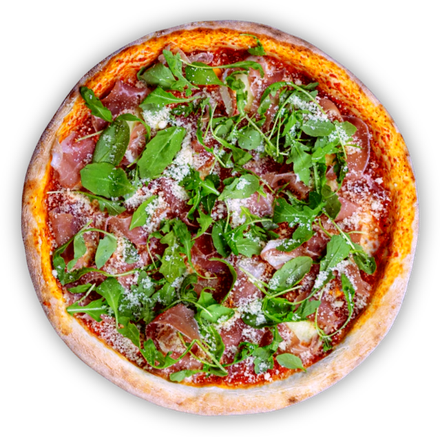
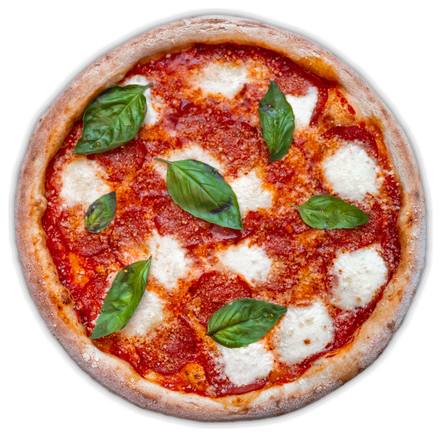
feat: правки заказчика — ассеты, мобильные размеры, CTA в картах, патичка
- favicon: вилка в жёлтом круге (icon.svg — исходник, gen-icons делает ico/apple-icon)
- hero: маргарита вместо маленькой пиццы, картошка в кульке
- карточки акций: дата · место везде, включая HP; бейдж «Již proběhlo»
- мобила (< md): тексты 15px, кнопки/теги/табы 50px·15px, newsletter поле и кнопка меньше
- theme-color #ffd100
- патичка: «BEDY Group s.r.o., IČO, DIČ» из global (новое поле companyName)
- якорь #newsletter с плавной прокруткой, мобильное меню закрывается по клику
- shared.numbered-card: необязательная кнопка (cta), populate '*' — устойчиво к порядку деплоя

diff --git a/client/src/components/Footer.tsx b/client/src/components/Footer.tsx
@@ -8,7 +8,7 @@ import { Logo } from './Logo';
  * Патичка. В макете отсутствует (подтверждено письмом) — «pár sloupců a odkazy,
  * sociální sítě atd». Тёмная, начинается сразу под жёлтой секцией newsletteru: волну
  * рисует её нижняя кромка, поэтому своей у патички нет.
- * Данные из `navigation` (колонки, правовые ссылки) + `global` (контакты, соцсети),
+ * Данные из `navigation` (колонки, правовые ссылки) + `global` (контакты, соцсети, údaje firmy),
  * с фолбэком, пока CMS пустая.
  */
 
@@ -37,6 +37,9 @@ const FALLBACK_LEGAL: FooterLink[] = [
   { label: 'Cookies', url: '/cookies' },
 ];
 
+/** Řádek s údaji provozovatele (místo «© rok Gastrozóny» — přání zákazníka 10/2026). */
+const FALLBACK_COMPANY = { name: 'BEDY Group s.r.o.', ico: '06304273', dic: 'CZ06304273' };
+
 const SOCIAL_LABELS: Record<string, string> = {
   facebook: 'Facebook',
   instagram: 'Instagram',
@@ -53,7 +56,15 @@ type FooterData = {
   phone: string | null;
   email: string | null;
   socials: Social[];
+  company: string;
 };
+
+const companyLine = (name?: string | null, ico?: string | null, dic?: string | null) =>
+  [
+    name || FALLBACK_COMPANY.name,
+    `IČO: ${ico || FALLBACK_COMPANY.ico}`,
+    `DIČ: ${dic || FALLBACK_COMPANY.dic}`,
+  ].join(', ');
 
 async function getFooterData(): Promise<FooterData> {
   try {
@@ -66,7 +77,14 @@ async function getFooterData(): Promise<FooterData> {
         query: { populate: ['footerColumns', 'footerColumns.links', 'footerLegal'] },
         revalidate: 300,
       }),
-      strapiFetch<{ phone?: string | null; email?: string | null; socials?: Social[] }>('/global', {
+      strapiFetch<{
+        phone?: string | null;
+        email?: string | null;
+        socials?: Social[];
+        companyName?: string | null;
+        ico?: string | null;
+        dic?: string | null;
+      }>('/global', {
         query: { populate: ['socials'] },
         revalidate: 300,
       }),
@@ -82,15 +100,26 @@ async function getFooterData(): Promise<FooterData> {
       phone: global.data?.phone ?? null,
       email: global.data?.email ?? null,
       socials: global.data?.socials ?? [],
+      company: companyLine(global.data?.companyName, global.data?.ico, global.data?.dic),
     };
   } catch {
-    return { columns: FALLBACK_COLUMNS, note: null, legal: FALLBACK_LEGAL, phone: null, email: null, socials: [] };
+    return {
+      columns: FALLBACK_COLUMNS,
+      note: null,
+      legal: FALLBACK_LEGAL,
+      phone: null,
+      email: null,
+      socials: [],
+      company: companyLine(),
+    };
   }
 }
 
 export const Footer = async () => {
-  const [{ columns, note, legal, phone, email, socials }, cookieTexts] = await Promise.all([getFooterData(), getCookieTexts()]);
-  const year = new Date().getFullYear();
+  const [{ columns, note, legal, phone, email, socials, company }, cookieTexts] = await Promise.all([
+    getFooterData(),
+    getCookieTexts(),
+  ]);
 
   return (
     <footer className="bg-ink text-white">
@@ -156,7 +185,7 @@ export const Footer = async () => {
 
         <div className="border-t border-white/10">
           <div className="container flex flex-col items-start justify-between gap-3 py-6 text-[14px] text-white/60 sm:flex-row sm:items-center">
-            <p>© {year} Gastrozóny</p>
+            <p>{company}</p>
             <ul className="flex flex-wrap gap-5">
               {legal.map((l) => (
                 <li key={l.url}>

diff --git a/client/src/components/Card.tsx b/client/src/components/Card.tsx
@@ -1,5 +1,7 @@
 import type { ReactNode } from 'react';
+import type { Cta } from '@/lib/homepage';
 import { mediaUrl, type StrapiMedia } from '@/lib/strapi';
+import { Button } from './Button';
 import { CmsImage } from './CmsImage';
 
 /** Жёлтый кружок с номером (01/02/03) — 53×53, цифра 29/33 ExtraBold. */
@@ -11,9 +13,18 @@ export const NumberDot = ({ children, className = '' }: { children: ReactNode; c
   </span>
 );
 
-export type NumberedCardData = { number: string; title: string; text: string | null; image?: StrapiMedia | null };
+export type NumberedCardData = {
+  number: string;
+  title: string;
+  text: string | null;
+  image?: StrapiMedia | null;
+  cta?: Cta | null;
+};
 
-/** Карты 01/02/03 (427×246 на 1920): круг-номер наполовину над картой, заголовок 29/33, текст 340. */
+/**
+ * Карты 01/02/03 (427×246 на 1920): круг-номер наполовину над картой, заголовок 29/33, текст 340.
+ * Необязательная кнопка (`cta`) прижата к низу карты — в ряду карт кнопки стоят на одной линии.
+ */
 export const NumberedCardList = ({
   cards,
   cardClassName = 'bg-white',
@@ -29,7 +40,7 @@ export const NumberedCardList = ({
       return (
         <li
           key={`${c.number}-${i}`}
-          className={`relative px-7 pb-8 pt-12 sm:px-10 xl:min-h-[246px] xl:pb-[38px] xl:pt-[55px] ${cardClassName}`}
+          className={`relative flex flex-col px-7 pb-8 pt-12 sm:px-10 xl:min-h-[246px] xl:pb-[38px] xl:pt-[55px] ${cardClassName}`}
         >
           <NumberDot className="absolute left-7 top-[-26px] sm:left-10">{c.number}</NumberDot>
           {image && (
@@ -45,6 +56,13 @@ export const NumberedCardList = ({
           )}
           <h3 className="text-h3">{c.title}</h3>
           {c.text && <p className="mt-[21px] max-w-[340px] text-body">{c.text}</p>}
+          {c.cta?.label && c.cta.url && (
+            <div className="mt-auto pt-8">
+              <Button href={c.cta.url} variant={c.cta.variant ?? 'primary'} newTab={c.cta.newTab}>
+                {c.cta.label}
+              </Button>
+            </div>
+          )}
         </li>
       );
     })}
@@ -57,9 +75,10 @@ export { Stat } from './Stat';
 /**
  * Тег «Stavíme pro»: как outline-кнопка — 66px, рамка 1px жёлтая, 19/24 ExtraBold.
  * Паддинг 27.5 (в XD 29): браузер рисует текст на ~3px шире XD — так ширины тегов совпадают с макетом.
+ * На мобиле уменьшен вместе с кнопками (Button.tsx).
  */
 export const Tag = ({ children }: { children: ReactNode }) => (
-  <span className="inline-flex h-[66px] items-center border border-yellow bg-white px-[27.5px] text-[19px] font-extrabold leading-[24px] text-ink shadow-btn">
+  <span className="inline-flex h-[50px] items-center border border-yellow bg-white px-5 text-[15px] font-extrabold leading-[20px] text-ink shadow-btn md:h-[66px] md:px-[27.5px] md:text-[19px] md:leading-[24px]">
     {children}
   </span>
 );

diff --git a/client/src/components/NewsletterForm.tsx b/client/src/components/NewsletterForm.tsx
@@ -25,7 +25,11 @@ const schema = z.object({
 
 type FormValues = z.infer<typeof schema>;
 
-/** Белая карта 680×243 из макета: паддинг 38/40/38/30, input 460×66 r4, кнопка 142×66, чекбокс 26. */
+/**
+ * Белая карта 680×243 из макета: паддинг 38/40/38/30, input 460×66 r4, кнопка 142×66, чекбокс 26.
+ * На мобиле (< md) поле и кнопка 50 высотой, как остальные кнопки (Button.tsx); текст поля 16px —
+ * при меньшем iOS Safari зумит страницу на фокусе.
+ */
 const CARD = 'bg-white px-5 py-7 sm:pb-[38px] sm:pl-[30px] sm:pr-[40px] sm:pt-[38px]';
 
 export const NewsletterForm = ({ texts }: { texts: NewsletterTexts }) => {
@@ -63,10 +67,10 @@ export const NewsletterForm = ({ texts }: { texts: NewsletterTexts }) => {
 
   return (
     <form onSubmit={handleSubmit(onSubmit)} noValidate className={`${CARD} w-full max-w-[680px]`}>
-      <label htmlFor="newsletter-email" className="block text-[20px] font-extrabold leading-[26px]">
+      <label htmlFor="newsletter-email" className="block text-[17px] font-extrabold leading-[22px] md:text-[20px] md:leading-[26px]">
         {texts.emailLabel}
       </label>
-      <div className="mt-[19px] flex flex-col gap-2 sm:flex-row">
+      <div className="mt-3 flex flex-col gap-2 sm:flex-row md:mt-[19px]">
         <input
           id="newsletter-email"
           type="email"
@@ -74,7 +78,7 @@ export const NewsletterForm = ({ texts }: { texts: NewsletterTexts }) => {
           placeholder={texts.placeholder}
           aria-invalid={!!errors.email}
           aria-describedby={errors.email ? 'newsletter-email-error' : undefined}
-          className="h-[66px] w-full min-w-0 rounded border-[1.5px] border-grey-line/35 pl-[27px] pr-4 text-[20px] outline-none transition-colors placeholder:text-ink/60 focus:border-ink sm:flex-1"
+          className="h-[50px] w-full min-w-0 rounded border-[1.5px] border-grey-line/35 px-4 text-[16px] outline-none transition-colors placeholder:text-ink/60 focus:border-ink sm:flex-1 md:h-[66px] md:pl-[27px] md:text-[20px]"
           {...register('email')}
         />
         <Button type="submit" variant="dark" disabled={isSubmitting}>

diff --git a/client/src/components/Newsletter.tsx b/client/src/components/Newsletter.tsx
@@ -11,6 +11,9 @@ import { NewsletterForm, type NewsletterTexts } from './NewsletterForm';
  * Декор (≥ xl — ниже ему не хватает места над патичкой): пицца слева обрезана нижней волной,
  * бургер 582 справа висит между секциями и заходит на патичку (z-20). Координаты от краёв контейнера, как в XD.
  *
+ * Якорь `#newsletter` (ссылка «/#newsletter» или «#newsletter» из меню/кнопок CMS): блок есть на каждой
+ * странице, scroll-mt = высота ужатой шапки (она sticky и иначе накрыла бы начало блока).
+ *
  * Нижняя кромка заливается цветом патички, а не белым: жёлтое переходит прямо в тёмное,
  * без белой полосы между ними. Заливка идёт поверх пиццы — потому кривая её и обрезает.
  */
@@ -59,8 +62,9 @@ export const Newsletter = async () => {
 
   return (
     <section
+      id="newsletter"
       aria-labelledby="newsletter-title"
-      className="relative z-20 overflow-x-clip"
+      className="relative z-20 scroll-mt-14 overflow-x-clip xl:scroll-mt-[68px]"
       style={{ '--nl-band': edgeHeight('darkBottom') } as CSSProperties}
     >
       <SectionEdge edge="darkBottom" fill="var(--color-yellow)" />

diff --git a/client/src/components/HeaderNav.tsx b/client/src/components/HeaderNav.tsx
@@ -38,7 +38,7 @@ export const HeaderNav = ({ items, cta }: HeaderNavProps) => {
     return () => window.removeEventListener('scroll', onScroll);
   }, []);
 
-  // закрыть мобильное меню при переходе
+  // закрыть мобильное меню при переходе (ссылки-якоря на той же странице закрывают его сами, onClick)
   useEffect(() => setOpen(false), [pathname]);
 
   // Esc закрывает меню, фон не скроллится
@@ -108,6 +108,7 @@ export const HeaderNav = ({ items, cta }: HeaderNavProps) => {
               <li key={item.url}>
                 <Link
                   href={item.url}
+                  onClick={() => setOpen(false)}
                   aria-current={isActive(item.url) ? 'page' : undefined}
                   className={`block py-2 text-[26px] font-extrabold hover:text-yellow ${
                     isActive(item.url) ? 'text-yellow' : ''
@@ -120,7 +121,8 @@ export const HeaderNav = ({ items, cta }: HeaderNavProps) => {
             <li className="pt-6">
               <Link
                 href={cta.url}
-                className="inline-flex h-[66px] items-center bg-yellow px-[29px] text-[19px] font-extrabold text-ink"
+                onClick={() => setOpen(false)}
+                className="inline-flex h-[50px] items-center bg-yellow px-5 text-[15px] font-extrabold text-ink"
               >
                 {cta.label}
               </Link>

diff --git a/client/src/components/EventCard.tsx b/client/src/components/EventCard.tsx
@@ -7,11 +7,11 @@ import { CmsImage } from './CmsImage';
 /**
  * Карточка акции из макета: 427 широкая, обложка 427×321, бейдж h37 наполовину
  * над обложкой (x+40), заголовок 23/33, перекс 18/33 (до 5 строк). Вся карточка — ссылка.
- * Ukončená akce — ч/б. `showMeta` (на /akce) — строка «datum · místo» над заголовком (в макете HP её нет).
+ * Ukončená akce — ч/б. Над заголовком строка «datum · místo» (в макете HP её не было, заказчик попросил всюду).
  */
-export const EventCard = ({ event, showMeta = false }: { event: EventSummary; showMeta?: boolean }) => {
+export const EventCard = ({ event }: { event: EventSummary }) => {
   const src = mediaUrl(event.cover);
-  const meta = showMeta ? [formatEventDate(event.dateFrom, event.dateTo), event.place].filter(Boolean).join(' · ') : '';
+  const meta = [formatEventDate(event.dateFrom, event.dateTo), event.place].filter(Boolean).join(' · ');
   return (
     <article className={`group relative flex h-full flex-col bg-white text-ink ${event.status === 'ukonceno' ? 'grayscale' : ''}`}>
       <div className="relative aspect-[427/321] overflow-hidden bg-grey-muted">

diff --git a/client/src/components/Button.tsx b/client/src/components/Button.tsx
@@ -3,6 +3,7 @@ import type { ButtonHTMLAttributes, ReactNode, Ref } from 'react';
 
 /**
  * Кнопка из макета: высота 66, прямые углы, текст 19/24 ExtraBold, паддинг-х 29.
+ * На мобиле (< md) — 50 / 15px / паддинг 20: примерно на четверть меньше (просьба заказчика).
  * primary — жёлтая с тенью 0 3px 6px rgba(0,0,0,.161)
  * outline — белая с рамкой 1px #FFD100
  * dark    — чёрная с жёлтым текстом («Odebírat» в newsletteru)
@@ -11,7 +12,8 @@ import type { ButtonHTMLAttributes, ReactNode, Ref } from 'react';
 export type ButtonVariant = 'primary' | 'outline' | 'dark';
 
 const base =
-  'inline-flex h-[66px] items-center justify-center px-[27.5px] text-[19px] font-extrabold leading-[24px] ' +
+  'inline-flex h-[50px] items-center justify-center px-5 text-[15px] font-extrabold leading-[20px] ' +
+  'md:h-[66px] md:px-[27.5px] md:text-[19px] md:leading-[24px] ' +
   'whitespace-nowrap transition-[transform,background-color,filter] duration-150 hover:-translate-y-0.5 ' +
   'focus-visible:outline-2 focus-visible:outline-offset-2 focus-visible:outline-ink ' +
   'disabled:pointer-events-none disabled:opacity-50';

diff --git a/client/src/components/EventTabs.tsx b/client/src/components/EventTabs.tsx
@@ -58,12 +58,12 @@ export const EventTabs = ({ tabs, initialId, label }: { tabs: EventTab[]; initia
               tabIndex={selected ? 0 : -1}
               onClick={() => select(i)}
               onKeyDown={(e) => onKeyDown(e, i)}
-              className={`inline-flex h-[52px] items-center gap-3 border border-yellow px-5 text-[17px] font-extrabold leading-[24px] text-ink shadow-btn transition-colors focus-visible:outline-2 focus-visible:outline-offset-2 focus-visible:outline-ink sm:h-[66px] sm:px-[27.5px] sm:text-[19px] ${
+              className={`inline-flex h-[50px] items-center gap-3 border border-yellow px-5 text-[15px] font-extrabold leading-[20px] text-ink shadow-btn transition-colors focus-visible:outline-2 focus-visible:outline-offset-2 focus-visible:outline-ink md:h-[66px] md:px-[27.5px] md:text-[19px] md:leading-[24px] ${
                 selected ? 'bg-yellow' : 'bg-white hover:bg-[#fffbe6]'
               }`}
             >
               {t.label}
-              <span className={`text-[15px] ${selected ? '' : 'text-grey-line'}`}>{t.count}</span>
+              <span className={`text-[13px] md:text-[15px] ${selected ? '' : 'text-grey-line'}`}>{t.count}</span>
             </button>
           );
         })}

diff --git a/client/src/lib/pages.ts b/client/src/lib/pages.ts
@@ -16,7 +16,14 @@ export type CtaBlockData = Block<
   'blocks.cta',
   { title: string | null; text: string | null; cta: Cta | null; background: Background | 'yellow' | null }
 >;
-export type NumberedCard = { id: number; number: string; title: string; text: string | null; image: StrapiMedia | null };
+export type NumberedCard = {
+  id: number;
+  number: string;
+  title: string;
+  text: string | null;
+  image: StrapiMedia | null;
+  cta: Cta | null;
+};
 export type CardsBlockData = Block<
   'blocks.cards',
   { title: string | null; text: string | null; items: NumberedCard[]; background: Background | null }
@@ -78,7 +85,7 @@ const BLOCKS_POPULATE = {
     'blocks.text': { populate: '*' },
     'blocks.gallery': { populate: ['images'] },
     'blocks.cta': { populate: ['cta'] },
-    'blocks.cards': { populate: { items: { populate: ['image'] } } },
+    'blocks.cards': { populate: { items: { populate: '*' } } }, // image + cta; `*` snese i schému bez cta
     'blocks.tags': { populate: ['items'] },
     'blocks.logos': { populate: { cta: true, logos: { populate: ['logo'] } } },
     'blocks.stats': { populate: ['items'] },

diff --git a/client/src/lib/homepage.ts b/client/src/lib/homepage.ts
@@ -11,7 +11,7 @@ export type Homepage = {
   hero: { title: string; perex: string | null; ctas: Cta[] };
   stats: { value: string; label: string }[];
   intro: { title: string; text: string | null };
-  cards: { number: string; title: string; text: string | null }[];
+  cards: { number: string; title: string; text: string | null; cta?: Cta | null }[];
   tagsTitle: string;
   tags: { label: string }[];
   clients: { title: string; text: string | null; moreLabel: string | null; cta: Cta | null; logos: ClientLogo[] };
@@ -75,7 +75,8 @@ export async function getHomepage(): Promise<Homepage> {
           hero: { populate: ['ctas'] },
           stats: true,
           intro: true,
-          cards: true,
+          // `*` a ne ['cta']: se starší schémou Strapi (bez cta) by výčet polí skončil 400 a HP by spadla do fallbacku
+          cards: { populate: '*' },
           tags: true,
           clients: { populate: { cta: true, logos: { populate: ['logo'] } } },
           events: { populate: ['cta'] },

diff --git a/client/src/app/layout.tsx b/client/src/app/layout.tsx
@@ -1,4 +1,4 @@
-import type { Metadata } from 'next';
+import type { Metadata, Viewport } from 'next';
 import { Plus_Jakarta_Sans } from 'next/font/google';
 import { DEFAULT_OG_IMAGE, SITE_NAME, SITE_URL } from '@/lib/seo';
 import './globals.css';
@@ -31,9 +31,12 @@ export const metadata: Metadata = {
   twitter: { card: 'summary_large_image', images: [DEFAULT_OG_IMAGE] },
 };
 
+// barva lišty prohlížeče (Android Chrome, Safari) — žlutá značky
+export const viewport: Viewport = { themeColor: '#ffd100' };
+
 export default function RootLayout({ children }: Readonly<{ children: React.ReactNode }>) {
   return (
-    <html lang="cs" className={jakarta.variable}>
+    <html lang="cs" className={jakarta.variable} data-scroll-behavior="smooth">
       <body>{children}</body>
     </html>
   );

diff --git a/client/src/app/globals.css b/client/src/app/globals.css
@@ -46,6 +46,24 @@
     interpolate-size: allow-keywords;
   }
 
+  /*
+   * Плавный переход к якорям (#newsletter). data-scroll-behavior="smooth" на <html> (layout.tsx) —
+   * чтобы Next на смене страницы прыгал наверх мгновенно, а не прокручивал всю страницу.
+   */
+  @media (prefers-reduced-motion: no-preference) {
+    html {
+      scroll-behavior: smooth;
+    }
+  }
+
+  /* Мобила (< md): běžné texty (text-body, text-lead — včetně RichText) 15px, просьба заказчика. */
+  @media (max-width: 47.99rem) {
+    :root {
+      --text-body: 0.9375rem;
+      --text-lead: 0.9375rem;
+    }
+  }
+
   body {
     @apply bg-white font-sans text-ink antialiased;
     overflow-x: clip;
